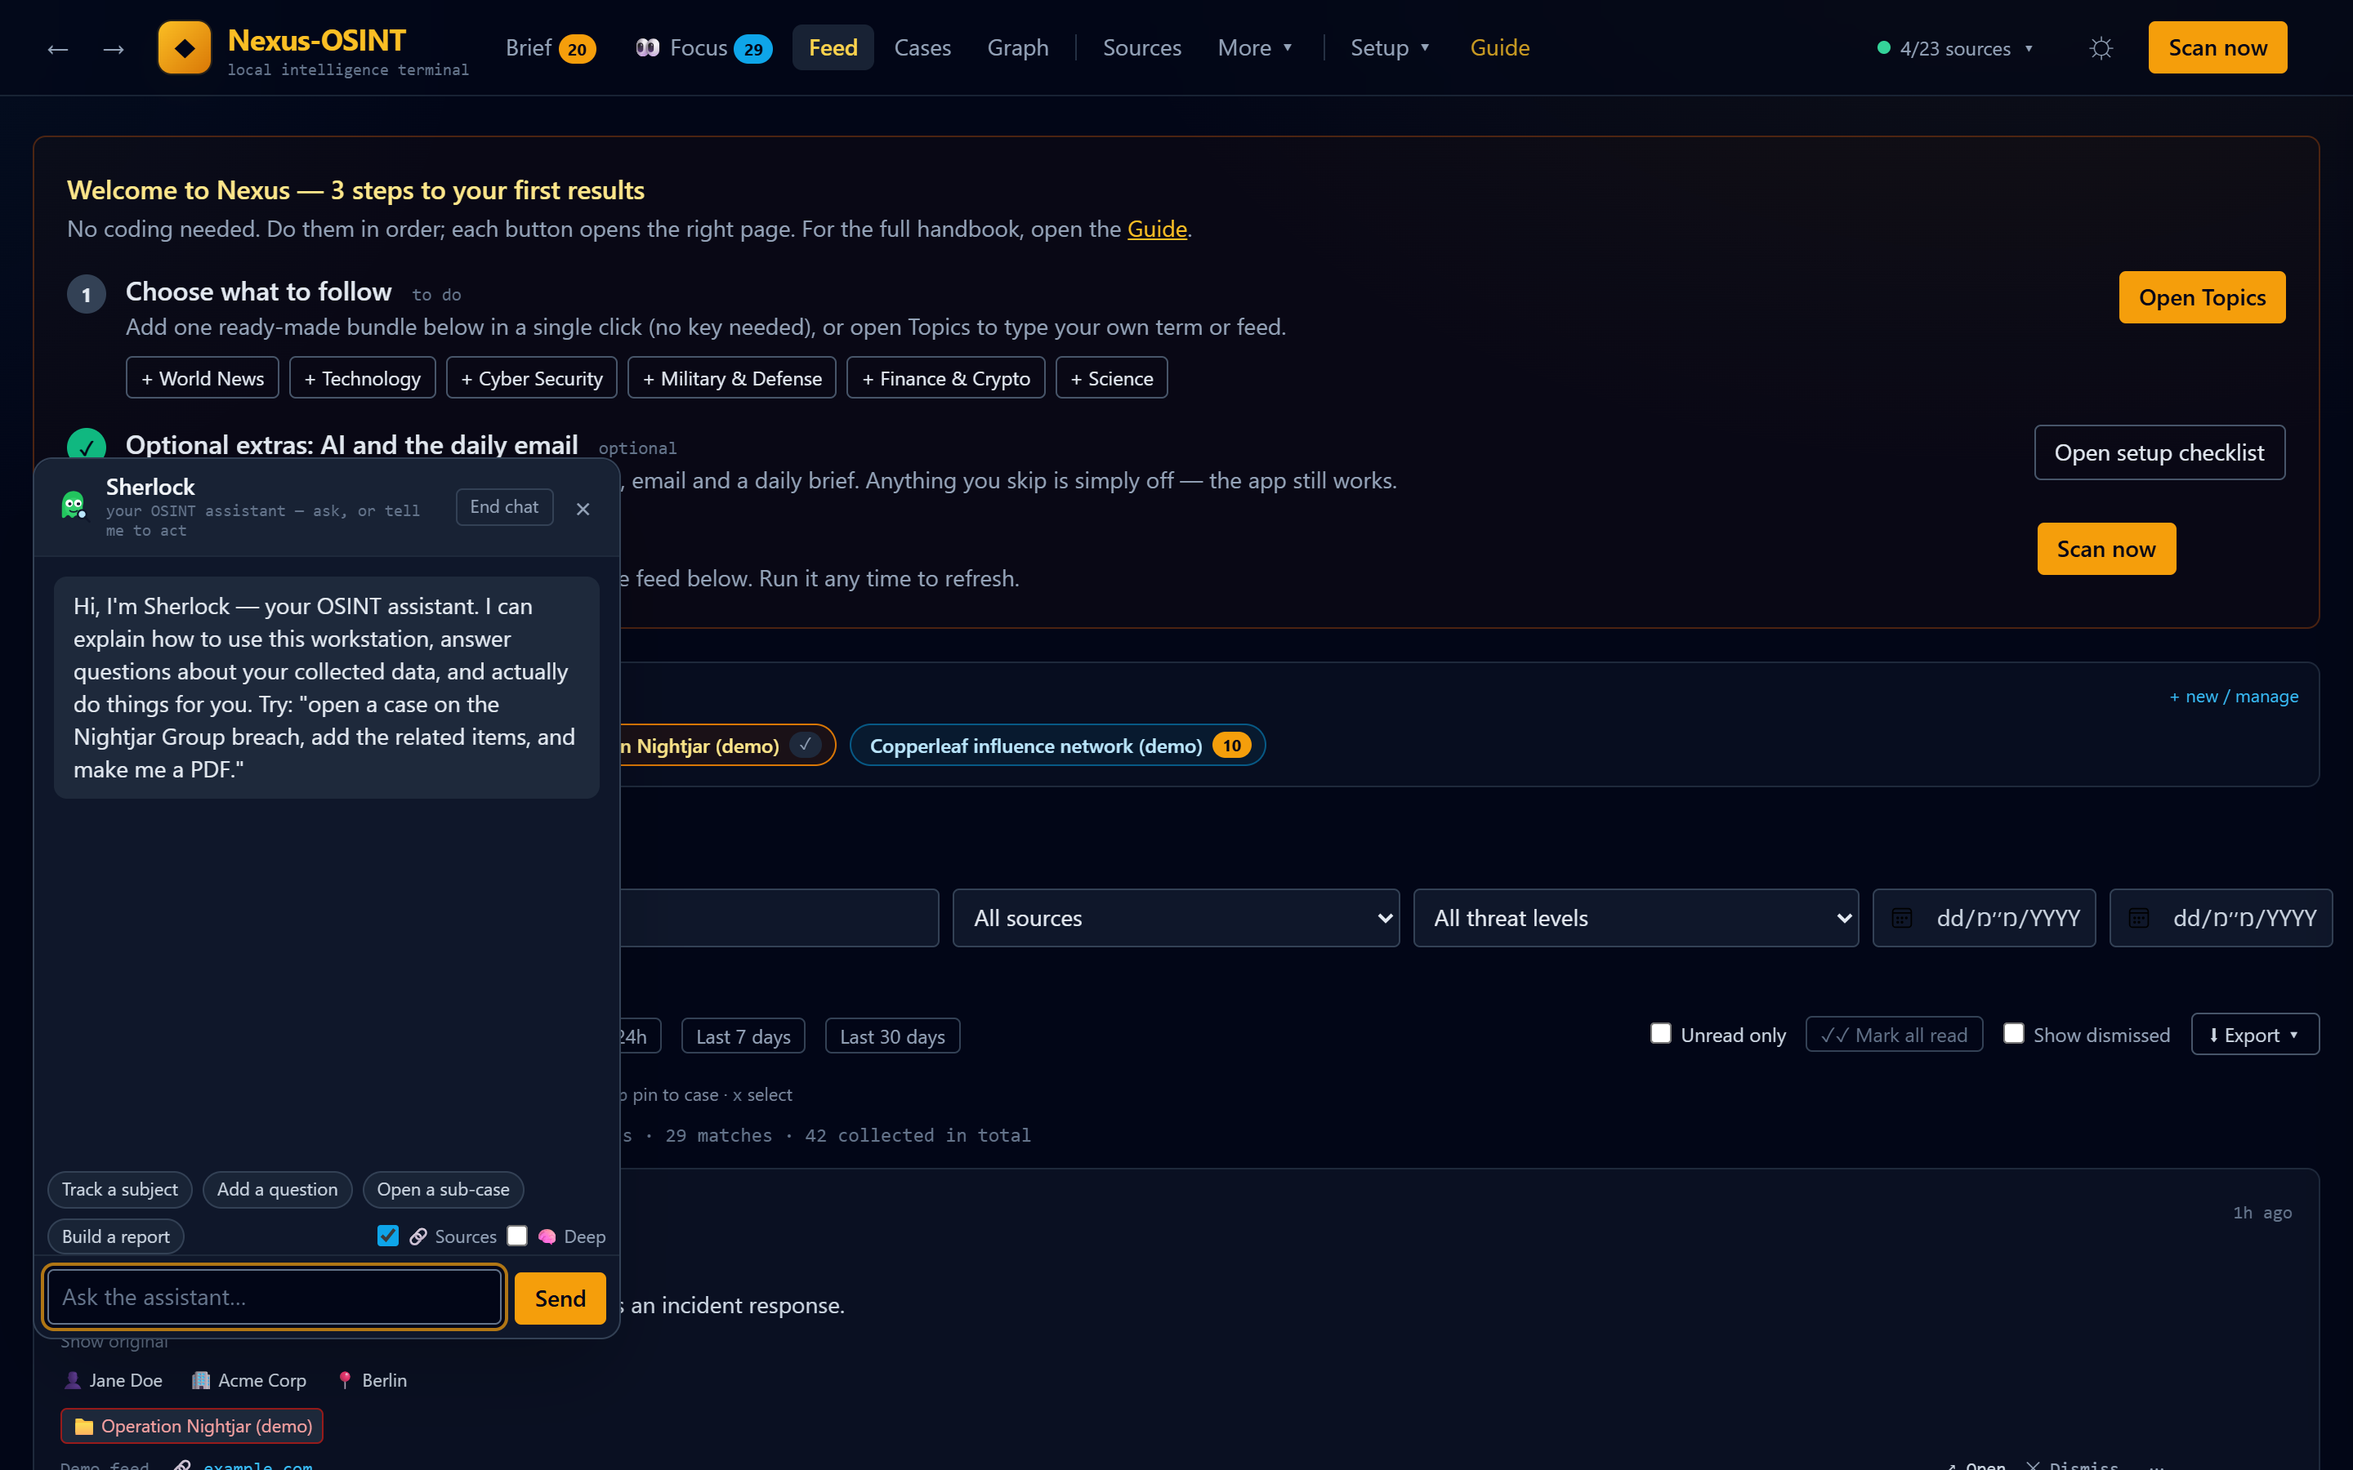
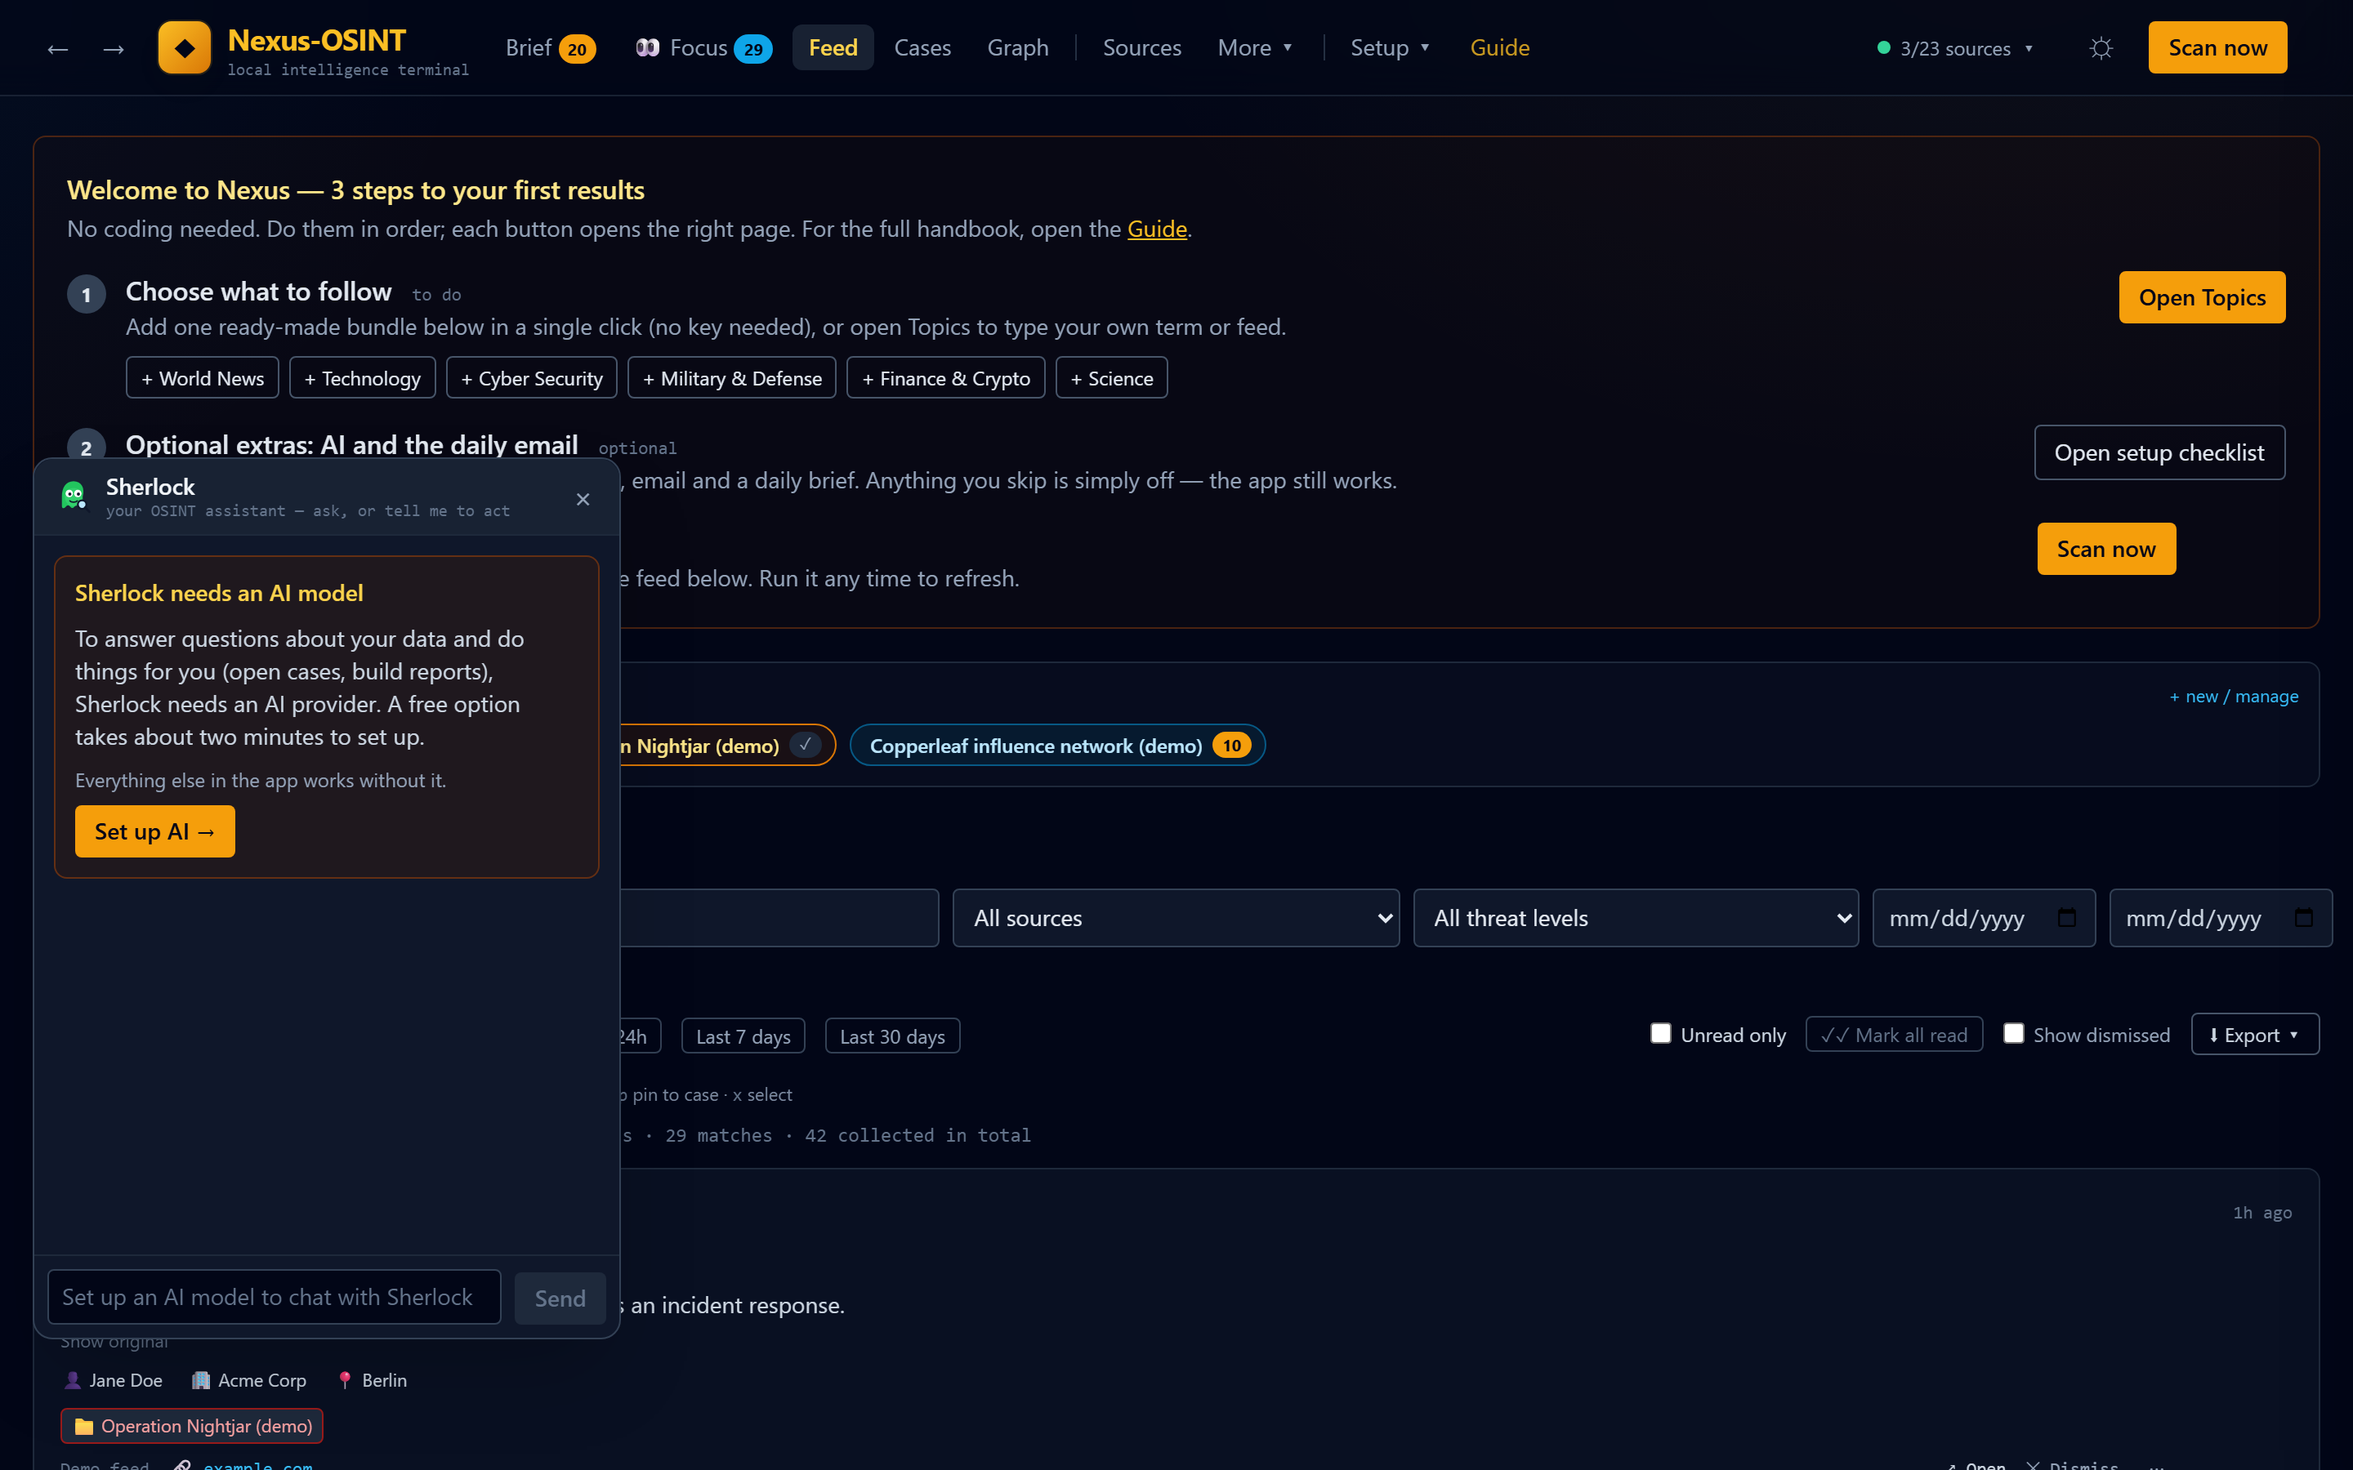
docs: refresh screenshots and the README tour for the new capabilities
Re-capture every screenshot from a throwaway fictional demo instance and add
documents, a connector screen, the publish preview and the activity log.
capture_screenshots.py now seeds a fictional report and connections itself.
Nothing is scanned or tested, and Confluence stops at the preview.

Update the tour and the test count (about 1,050). The demo video URL is
unchanged.

diff --git a/scripts/capture_screenshots.py b/scripts/capture_screenshots.py
@@ -8,20 +8,48 @@ never against a real one, because the images are published with the repo:
     curl -X POST http://127.0.0.1:8765/demo/load
     python scripts/capture_screenshots.py --base http://127.0.0.1:8765
 
-PNGs are written to docs/media/ at 2x device scale.
+PNGs are written to docs/media/ at 2x device scale. The script also adds a
+fictional report and fictional connections to that throwaway instance, for the
+documents, connector, publish and activity shots. Nothing is scanned or tested,
+Confluence stops at the preview, and the only publish is to a temporary vault.
 """
 
 from __future__ import annotations
 
 import argparse
+import tempfile
+from io import BytesIO
 from pathlib import Path
 
+from docx import Document
 from playwright.sync_api import Page, sync_playwright
 
 OUT = Path(__file__).resolve().parent.parent / "docs" / "media"
 VIEWPORT = {"width": 1440, "height": 900}
 # The floating assistant launcher overlaps content in still images.
 HIDE_LAUNCHER = "#assistant-launcher{display:none!important}"
+FICTIONAL_REPORT = (
+    (
+        "Executive summary",
+        "The Rotterdam terminal outage cost 11 days of container scheduling. "
+        "No ransom was paid and operations were restored from offline backups.",
+    ),
+    (
+        "Root cause",
+        "The intrusion began through an unpatched VPN appliance (CVE-2026-1442). Shared "
+        "administrator accounts let the attackers reach terminal scheduling.",
+    ),
+    (
+        "Supplier exposure",
+        "Three suppliers held standing remote access to the terminal network. "
+        "Access is now limited to named accounts with a 30-day review.",
+    ),
+    (
+        "Remediation plan",
+        "Separate the terminal network, reduce the critical patch window to seven "
+        "days and run restore tests every month.",
+    ),
+)
 
 
 def _open(page: Page, url: str, wait_ms: int = 800, *, launcher: bool = False) -> None:
@@ -38,13 +66,139 @@ def _shot(page: Page, name: str) -> None:
     print("saved", name)
 
 
+def _report_docx() -> bytes:
+    """The fictional report as a Word file: Nexus makes one item per heading."""
+    doc = Document()
+    doc.add_heading("Harborline Logistics: Q3 Resilience Review", 0)
+    for heading, body in FICTIONAL_REPORT:
+        doc.add_heading(heading, 1)
+        doc.add_paragraph(body)
+    out = BytesIO()
+    doc.save(out)
+    return out.getvalue()
+
+
+def _seed_extras(page: Page, base: str, vault: Path) -> None:
+    """Add the fictional report, connections and vault the new shots need."""
+    (vault / "Rotterdam outage.md").write_text("# Rotterdam outage\n", encoding="utf-8")
+    headers = {"Origin": base, "Referer": f"{base}/"}
+    post = page.request.post
+    post(
+        f"{base}/documents/upload",
+        headers=headers,
+        multipart={
+            "destination": "pool",
+            "files": {
+                "name": "Harborline-Q3-Resilience-Review.docx",
+                "mimeType": "application/vnd.openxmlformats-officedocument."
+                "wordprocessingml.document",
+                "buffer": _report_docx(),
+            },
+        },
+    )
+    post(
+        f"{base}/sources/confluence",
+        headers=headers,
+        form={
+            "name": "Harborline Wiki",
+            "deployment": "dc",
+            "destination": "pool",
+            "base_url": "https://wiki.harborline.example",
+            "spaces": "SEC,OPS",
+            "token": "fictional-token",
+            "tls_mode": "system",
+        },
+    )
+    post(f"{base}/sources/confluence/1/publishing", headers=headers)
+    post(
+        f"{base}/sources/obsidian",
+        headers=headers,
+        form={
+            "name": "Harborline Vault",
+            "path": str(vault),
+            "destination": "pool",
+        },
+    )
+    post(
+        f"{base}/sources/obsidian/1/writing",
+        headers=headers,
+        form={"allow_write": "1", "write_folder": "Nexus"},
+    )
+    for kind, name in (("notion", "Team Notion"), ("slack", "Ops Slack")):
+        post(
+            f"{base}/sources/cloud",
+            headers=headers,
+            form={
+                "kind": kind,
+                "name": name,
+                "token": "fictional-token",
+                "destination": "pool",
+            },
+        )
+
+
+def _capture_new_pages(page: Page, base: str) -> None:
+    """Documents, a connector screen, the publish preview and the activity log."""
+    _open(page, f"{base}/sources/documents")
+    chunks = page.locator("button[hx-get*='/chunks']").first
+    chunks.click()
+    page.wait_for_timeout(700)
+    chunks.evaluate("e => window.scrollBy(0, e.getBoundingClientRect().top - 120)")
+    page.wait_for_timeout(300)
+    _shot(page, "documents")
+
+    _open(page, f"{base}/sources/confluence")
+    _shot(page, "connector")
+
+    # Edit an item, then stop at the Confluence preview: nothing is sent.
+    _open(page, f"{base}/?q=%22suspected%20operator%22")
+    page.locator("[hx-get*='/detail']").first.click()
+    page.wait_for_selector("[data-item-detail]")
+    drawer = page.locator("[data-item-detail]")
+    drawer.locator("button:has-text('Edit')").first.click()
+    drawer.locator("textarea[name=note]").fill("Confirmed by our Q3 review.")
+    drawer.locator("button:has-text('Save edit')").click()
+    page.wait_for_load_state("networkidle")
+    page.wait_for_timeout(500)
+    drawer.locator("summary:has-text('Publish')").click()
+    drawer.locator("button[hx-get*='target=confluence']").click()
+    page.wait_for_selector("[data-publish-form] input[name=space]")
+    close_menu = (
+        "document.querySelectorAll('[data-item-detail] details[open]').forEach(d => {"
+        " if (d.querySelector(\"button[hx-get*='target=']\")) d.removeAttribute('open'); })"
+    )
+    page.evaluate(close_menu)
+    page.locator("[data-publish-form] input[name=space]").fill("SEC")
+    page.locator("[data-publish-form] button:has-text('Preview')").click()
+    page.wait_for_selector("[data-publish-preview]")
+    page.locator("[data-publish-preview]").evaluate("e => e.scrollIntoView({block: 'center'})")
+    page.wait_for_timeout(500)
+    _shot(page, "publish-preview")
+
+    # A confirmed publish to the temporary vault gives the activity log a row.
+    drawer.locator("summary:has-text('Publish')").evaluate(
+        "e => e.scrollIntoView({block: 'center'})"
+    )
+    drawer.locator("summary:has-text('Publish')").click()
+    drawer.locator("button[hx-get*='target=obsidian']").click()
+    page.wait_for_selector("[data-publish-form] select[name=vault_id]")
+    page.evaluate(close_menu)
+    page.locator("[data-publish-form] button:has-text('Preview')").click()
+    page.wait_for_selector("[data-publish-preview]")
+    page.locator("[data-publish-preview] button:has-text('Confirm')").click()
+    page.wait_for_selector("text=Saved to Obsidian")
+
+    _open(page, f"{base}/security/outbound")
+    _shot(page, "activity-log")
+
+
 def capture(base: str) -> None:
     with sync_playwright() as p:
         try:
-            browser = p.chromium.launch()
+            browser = p.chromium.launch(args=["--lang=en-US"])
         except Exception:  # Playwright's Chromium not installed: use the system Edge
-            browser = p.chromium.launch(channel="msedge")
-        page = browser.new_page(viewport=VIEWPORT, device_scale_factor=2)
+            browser = p.chromium.launch(channel="msedge", args=["--lang=en-US"])
+        page = browser.new_page(viewport=VIEWPORT, device_scale_factor=2, locale="en-US")
 
         # Feed: scroll past the onboarding card to the analysed items.
         _open(page, f"{base}/")
@@ -95,6 +249,10 @@ def capture(base: str) -> None:
         page.evaluate(f"window.scrollTo(0, {top} - 150)")
         page.wait_for_timeout(400)
         _shot(page, "feed-light")
+
+        with tempfile.TemporaryDirectory() as vault:
+            _seed_extras(page, base, Path(vault))
+            _capture_new_pages(page, base)
 
         browser.close()
 

diff --git a/README.md b/README.md
@@ -224,10 +224,47 @@ Colours separate people, organisations, places and identifiers (wallets,
 domains, CVEs, emails), so infrastructure reuse stands out. Every node opens
 that entity's dossier.
 
+### 5. Your own documents, searchable next to everything else
+
+<img src="docs/media/documents.png" alt="Documents page: a fictional Word report uploaded to the knowledge pool and split into four searchable sections" width="100%">
+
+Upload a report, a spreadsheet, an exported wiki or a ZIP, and Nexus splits it
+into one item per page, section, sheet or slide. Those items are searchable right
+away, and Sherlock answers from them with citations you can click to open the
+exact passage. With a cloud AI provider, a file stays away from it unless you
+tick "Allow cloud AI" for that upload.
+
+<img src="docs/media/connector.png" alt="Confluence connector screen with a fictional Data Center connection, read-only by default, with publishing switched on" width="100%">
+
+The same goes for the places your material already lives: Confluence (Cloud or
+Data Center) and Obsidian vaults, plus read-only Notion, Slack, Google Drive and
+SharePoint or OneDrive connectors. On a closed network, intranet hosts are
+reached only after you allow-list them, and tokens stay in `.env`. Setup details:
+[docs/INGESTION.md](docs/INGESTION.md).
+
+### 6. Edit, preview, publish
+
+<img src="docs/media/publish-preview.png" alt="Item drawer showing an analyst edit and a preview of the exact Confluence content, with nothing sent until Confirm and publish is clicked" width="100%">
+
+Edit an item without touching the collected original, or compose a write-up from
+pinned items, then publish it to Confluence, a note in your Obsidian vault or the
+knowledge pool. Writing is off until you allow it per connection, the preview is
+exactly what will be sent, and only a click confirms it. Sherlock can prepare a
+publish but has no path to confirm one. See [docs/PUBLISHING.md](docs/PUBLISHING.md).
+
+### 7. An activity log of what left the machine
+
+<img src="docs/media/activity-log.png" alt="Outbound activity page listing each event by type, destination, action, size and result" width="100%">
+
+Local-first is easier to believe when you can check it. Outbound activity lists
+AI calls, publishing, e-mail and source fetches by destination, with counts and
+sizes but never the content, and exports to CSV. Stored files can also be
+encrypted at rest (Settings > Encryption at rest, off by default).
+
 <details>
 <summary><b>More of the tour: entity dossier, daily brief, the assistant, settings</b></summary>
 
-#### 5. Entity dossier and contextual pivots
+#### 8. Entity dossier and contextual pivots
 
 <img src="docs/media/entity.png" alt="Entity dossier for Nightjar Group: co-occurring entities, cases it appears in and every item mentioning it" width="100%">
 
@@ -238,7 +275,7 @@ offers the matching **passive** OSINT tools (for example holehe for an email,
 maigret for a username) as one-click pivots. Only tools that are installed are
 offered, and targets are validated before they reach a subprocess.
 
-#### 6. Daily brief
+#### 9. Daily brief
 
 <img src="docs/media/brief.png" alt="Daily brief listing new items per case since the analyst last looked" width="100%">
 
@@ -248,9 +285,9 @@ AI analysis is off) instead of failing silently. Optionally, Sherlock emails a
 written version of this brief every morning, and each case can save a daily
 PDF/HTML report that shows up in a "Latest reports" strip here.
 
-#### 7. Sherlock: an assistant that can act, inside a fence
+#### 10. Sherlock: an assistant that can act, inside a fence
 
-<img src="docs/media/assistant.png" alt="Sherlock panel with suggested actions" width="100%">
+<img src="docs/media/assistant.png" alt="Sherlock panel; with no AI provider set it says so and links to the setup step" width="100%">
 
 Sherlock, the in-app assistant (not the `sherlock` username CLI of the same
 name), can open cases, add tracking words, pin matching items, run a scan and
@@ -260,7 +297,7 @@ reach the network. Collected text is untrusted input, so the assistant's output
 is rendered as text, never HTML: a prompt injection hidden in a scraped post
 cannot become script execution in your browser.
 
-#### 8. A setup checklist, and settings that explain themselves
+#### 11. A setup checklist, and settings that explain themselves
 
 <img src="docs/media/setup.png" alt="Setup checklist: five steps with live status (sources, AI, email, daily brief, daily case reports) and the daily-brief scheduling card" width="100%">
 
@@ -433,7 +470,7 @@ pip install -r requirements-dev.txt
 python -m pytest -q
 ```
 
-The suite (about 600 tests) uses temporary SQLite databases and avoids the
+The suite (about 1,050 tests) uses temporary SQLite databases and avoids the
 network; it covers storage and dedup, source parsing, the assistant allow-list,
 web hardening, export/transfer round-trips and route smoke tests.
 
